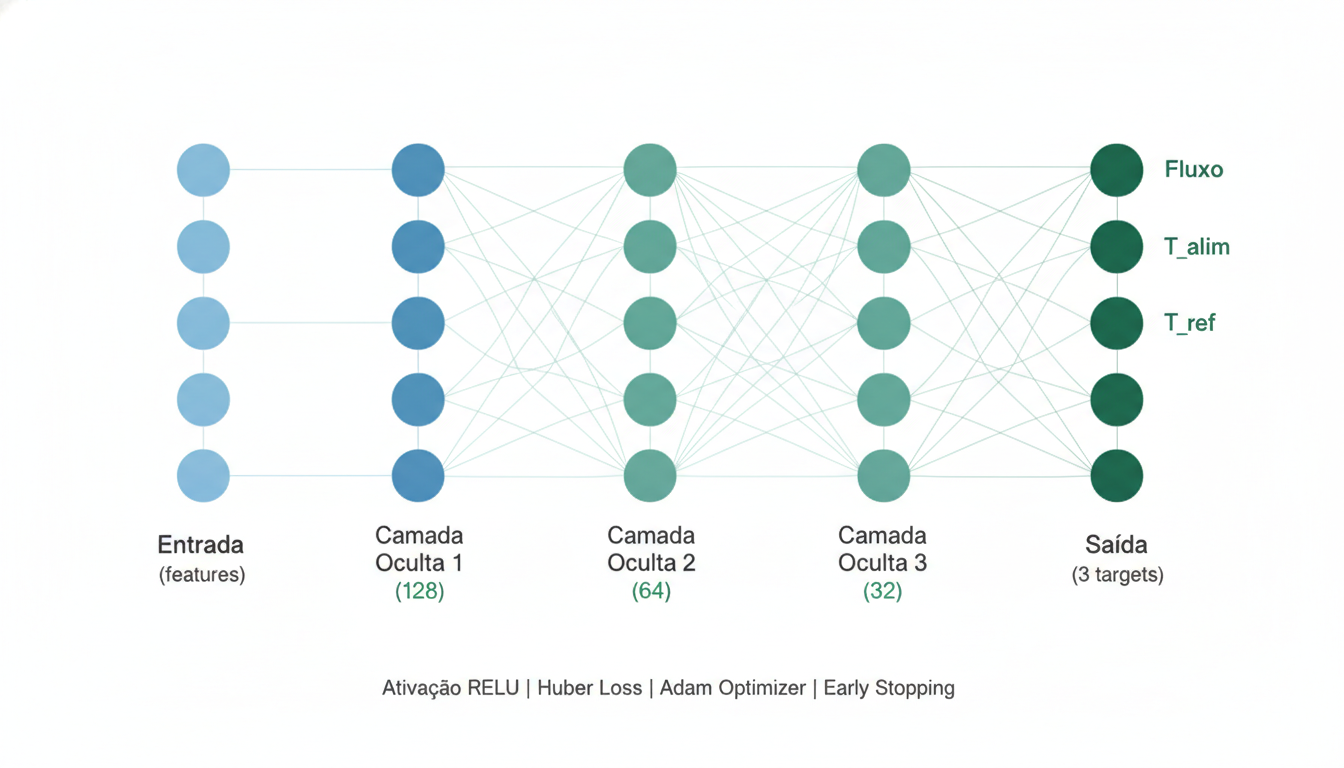
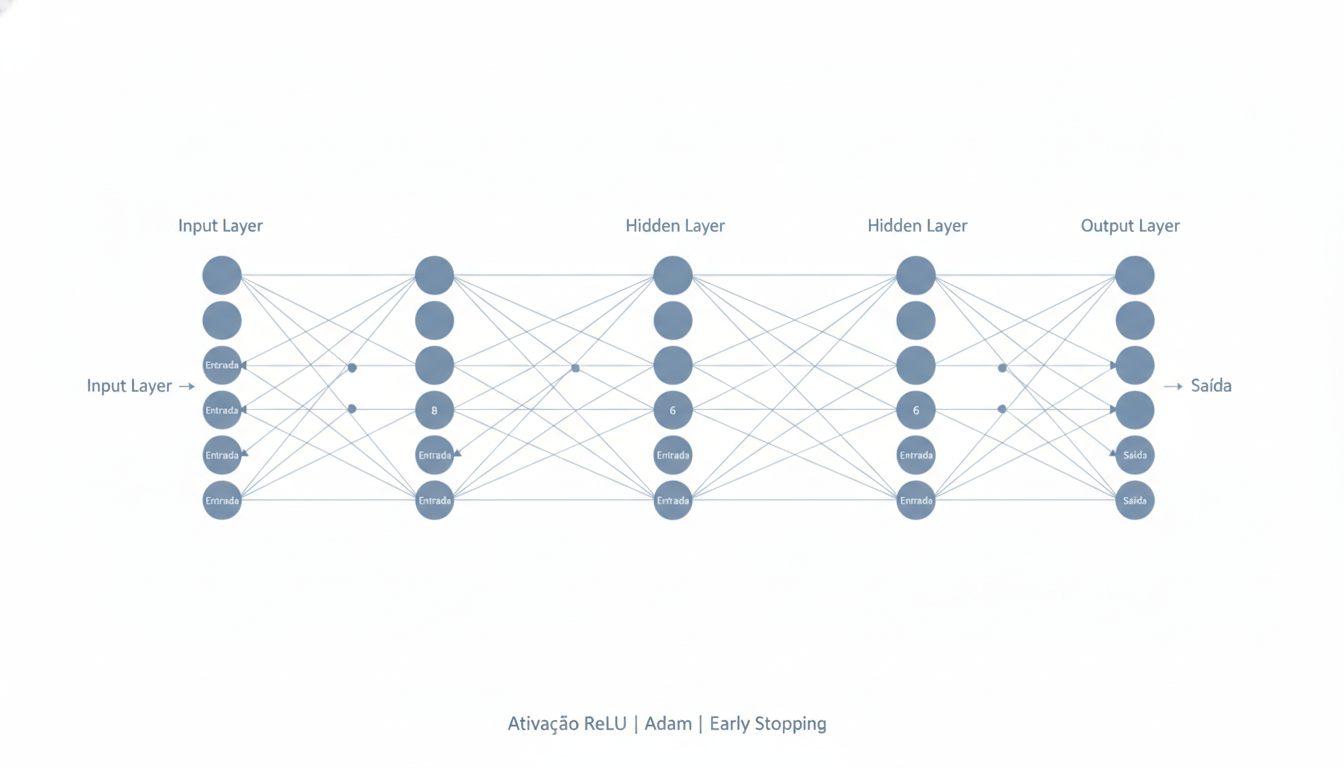
Reduz tamanho MLP e remove info especifica do projeto da imagem

Changed region(s): [[0.0625, 0.1875, 0.9375, 0.7812], [0.2812, 0.875, 0.7188, 0.9062], [0.375, 0.9375, 0.625, 0.9688]]

diff --git a/chapters/2a_fundamentacao.tex b/chapters/2a_fundamentacao.tex
@@ -63,7 +63,7 @@
 %========================================================================
 \begin{slide}{Famílias de Modelos II — Neurais e Híbridos}
   \centering
-  \includegraphics[width=0.65\textwidth]{tcc_images/chap02a/redes_neurais.png}
+  \includegraphics[width=0.50\textwidth]{tcc_images/chap02a/redes_neurais.png}
   \vfill
   \includegraphics[width=0.85\textwidth]{tcc_images/chap02a/hibridos.png}
   \note{MLP: camadas densas com ativação não linear. Híbridos: incorporam predições do modelo 0D como entrada ou regularização. PhyResidual aprende correção residual; PhyHybrid estende a entrada; PhyLoss regulariza a perda; PhyInput usa predições como features extras. [~1 min]}